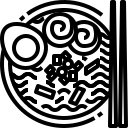
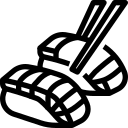
뽑기 버튼 이미지 변경, 홈 간격 넓히기

diff --git a/src/main/resources/static/css/recommend-style.css b/src/main/resources/static/css/recommend-style.css
@@ -518,3 +518,9 @@ footer {
     background-color: var(--main-color); /* 여기서 main color로 설정 */
     color:white;
 }
+#dropdownMenuButton{
+    border: none;
+}
+.mobile-cuisine-name span{
+    white-space: nowrap;
+}

diff --git a/src/main/resources/static/css/home-style.css b/src/main/resources/static/css/home-style.css
@@ -29,13 +29,16 @@ main {
 }
 
 .cell {
-    padding: 0.5rem;
+    padding: 0.75rem;
 }
 
 .img {
 
     border-radius: 10px;
     background-color: white;
+}
+.mobile-cuisine-name span{
+    white-space: nowrap;
 }
 
 
